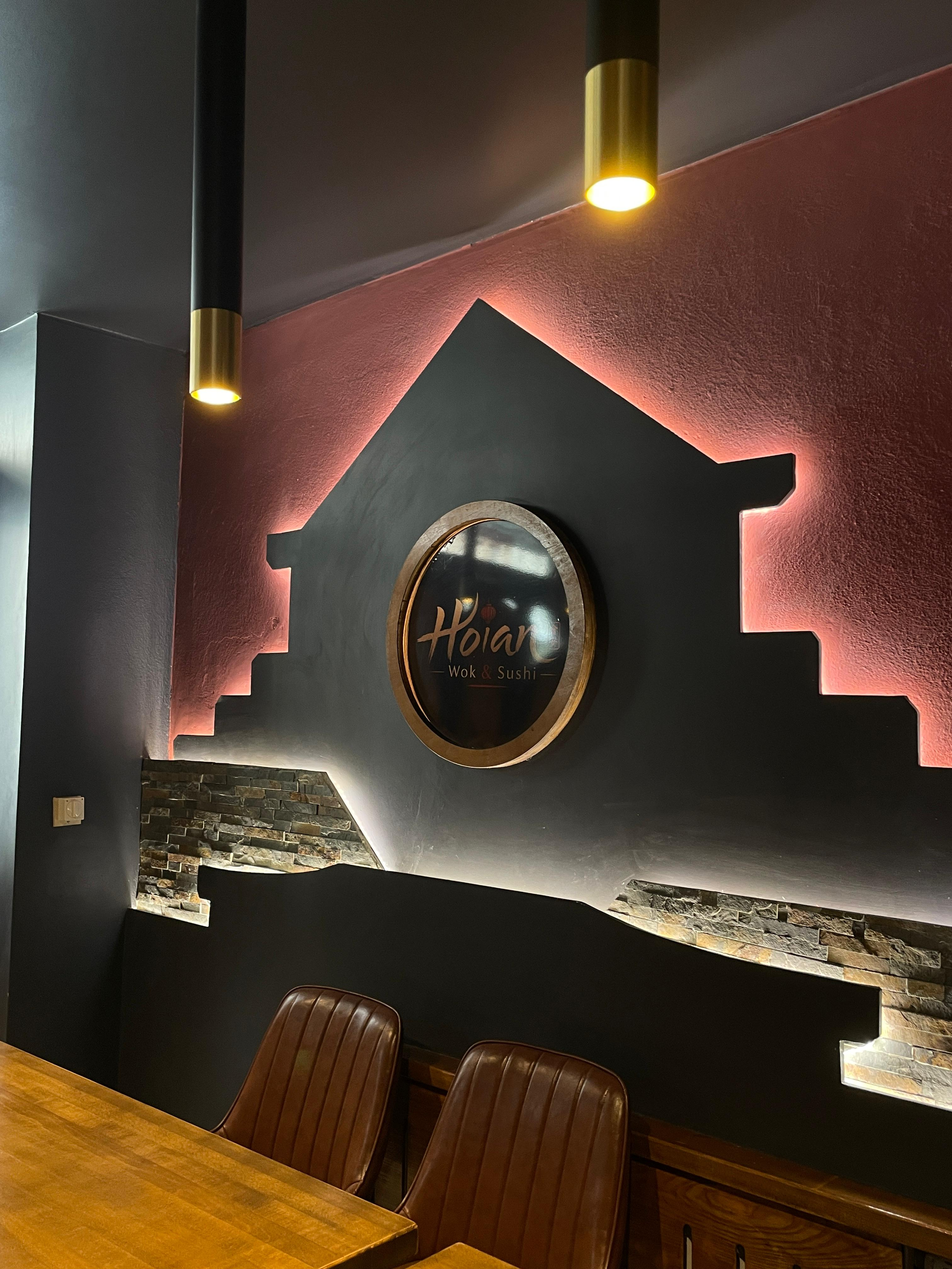
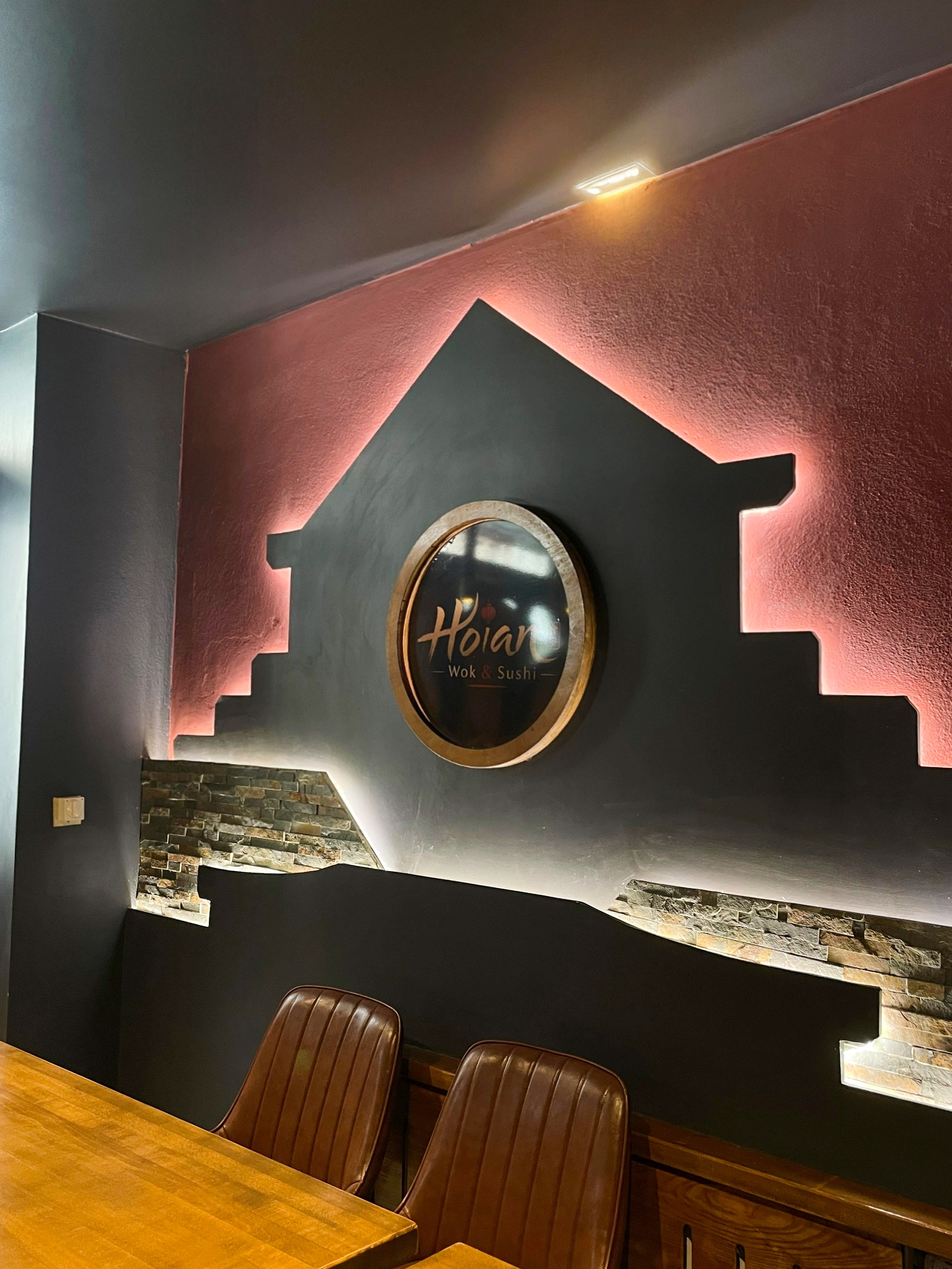
E-Mail wieder auf der Startseite
Der Kontaktblock nennt neben den beiden Nummern wieder die Adresse,
jetzt info@hoian-woksushi.de. Sie kommt wie überall aus site.ts, damit
Startseite, Impressum und Datenschutz nicht auseinanderlaufen.

Enthält außerdem ein ausgetauschtes restaurant-2.jpeg aus dem
Arbeitsverzeichnis.

Claude-Session: https://claude.ai/code/session_01KdHrtJhJYvegQ4pz3nU4J3

diff --git a/docs/index.html b/docs/index.html
@@ -28,12 +28,12 @@ Hoi An ist eine Hafenstadt in Zentralvietnam: Laternen über der Altstadt, offen
             Küchen in den Gassen. Die Stadt lässt sich nicht mitbringen, ihre Küche schon — dieselben
             Gewürze, derselbe Reis, dieselben langen Abende, an denen das Essen in die Mitte des
             Tisches kommt und alle zugreifen. Genau das steht hier an der Bahnhofstraße.
-</p> </div> </div> <div class="mt-[clamp(2rem,5vw,3.5rem)] grid gap-[clamp(0.75rem,2vw,1.5rem)] sm:grid-cols-2"> <img src="/_astro/restaurant-1.CcNEbhpf_ZBA0yl.webp" srcset="/_astro/restaurant-1.CcNEbhpf_1eaLes.webp 480w, /_astro/restaurant-1.CcNEbhpf_2aeLVC.webp 760w, /_astro/restaurant-1.CcNEbhpf_ZBA0yl.webp 1200w" alt="Gastraum mit geschwungener Holzskulptur über der Theke" sizes="(min-width: 40rem) 50vw, 100vw" loading="lazy" decoding="async" fetchpriority="auto" width="1200" height="1600" class="aspect-4/5 w-full object-cover"> <img src="/_astro/restaurant-2.C5XvszuQ_1aM2N1.webp" srcset="/_astro/restaurant-2.C5XvszuQ_1rHo13.webp 480w, /_astro/restaurant-2.C5XvszuQ_2nLoId.webp 760w, /_astro/restaurant-2.C5XvszuQ_1aM2N1.webp 1200w" alt="Wandbild mit dem Schriftzug des Restaurants über den Sitzplätzen" sizes="(min-width: 40rem) 50vw, 100vw" loading="lazy" decoding="async" fetchpriority="auto" width="1200" height="1600" class="aspect-4/5 w-full object-cover"> </div> </div> </section>  <section id="kontakt" class="scroll-mt-17 bg-ink-900 py-[clamp(2rem,4.5vw,4rem)] text-cream"> <div class="mx-auto w-full max-w-shell px-gutter"> <h2 class="font-display text-heading leading-none tracking-[-0.015em] text-balance">
+</p> </div> </div> <div class="mt-[clamp(2rem,5vw,3.5rem)] grid gap-[clamp(0.75rem,2vw,1.5rem)] sm:grid-cols-2"> <img src="/_astro/restaurant-1.CcNEbhpf_ZBA0yl.webp" srcset="/_astro/restaurant-1.CcNEbhpf_1eaLes.webp 480w, /_astro/restaurant-1.CcNEbhpf_2aeLVC.webp 760w, /_astro/restaurant-1.CcNEbhpf_ZBA0yl.webp 1200w" alt="Gastraum mit geschwungener Holzskulptur über der Theke" sizes="(min-width: 40rem) 50vw, 100vw" loading="lazy" decoding="async" fetchpriority="auto" width="1200" height="1600" class="aspect-4/5 w-full object-cover"> <img src="/_astro/restaurant-2.Dw-jOlPS_wtOzW.webp" srcset="/_astro/restaurant-2.Dw-jOlPS_Z1lEAkQ.webp 480w, /_astro/restaurant-2.Dw-jOlPS_ZpAzCG.webp 760w, /_astro/restaurant-2.Dw-jOlPS_wtOzW.webp 1200w" alt="Wandbild mit dem Schriftzug des Restaurants über den Sitzplätzen" sizes="(min-width: 40rem) 50vw, 100vw" loading="lazy" decoding="async" fetchpriority="auto" width="1200" height="1600" class="aspect-4/5 w-full object-cover"> </div> </div> </section>  <section id="kontakt" class="scroll-mt-17 bg-ink-900 py-[clamp(2rem,4.5vw,4rem)] text-cream"> <div class="mx-auto w-full max-w-shell px-gutter"> <h2 class="font-display text-heading leading-none tracking-[-0.015em] text-balance">
 Kontakt
 </h2> <div class="mt-8 grid gap-[clamp(1.5rem,4vw,3rem)] md:grid-cols-2"> <div> <h3 class="font-display text-title leading-none text-balance">Öffnungszeiten</h3> <dl class="grid gap-0.5 mt-4"> <div class="flex justify-between gap-6 border-t py-2.5 border-cream/15"> <dt class="text-cream-dim">Montag – Samstag</dt> <dd class="m-0 text-right tabular-nums">10:00 – 20:00</dd> </div><div class="flex justify-between gap-6 border-t py-2.5 border-cream/15"> <dt class="text-cream-dim">Sonntag</dt> <dd class="m-0 text-right tabular-nums">Ruhetag</dd> </div> </dl> <p class="mt-6 text-label text-cream-dim">
 An Feiertagen können die Zeiten abweichen. Rufen Sie im Zweifel kurz an.
-</p> <h3 class="mt-10 font-display text-title leading-none text-balance">Telefon</h3> <p class="mt-4"> <a class="underline decoration-cream/30 underline-offset-4 hover:decoration-lantern-soft" href="tel:+4935854525047">03585 4525047</a> /
-<a class="underline decoration-cream/30 underline-offset-4 hover:decoration-lantern-soft" href="tel:+4917631510183">0176 31510183</a> </p> <h3 class="mt-10 font-display text-title leading-none text-balance">Reservierung</h3> <p class="mt-4 max-w-[46ch]">
+</p> <h3 class="mt-10 font-display text-title leading-none text-balance">Telefon &amp; E-Mail</h3> <p class="mt-4"> <a class="underline decoration-cream/30 underline-offset-4 hover:decoration-lantern-soft" href="tel:+4935854525047">03585 4525047</a> /
+<a class="underline decoration-cream/30 underline-offset-4 hover:decoration-lantern-soft" href="tel:+4917631510183">0176 31510183</a><br> <a class="underline decoration-cream/30 underline-offset-4 hover:decoration-lantern-soft" href="mailto:info@hoian-woksushi.de">info@hoian-woksushi.de</a> </p> <h3 class="mt-10 font-display text-title leading-none text-balance">Reservierung</h3> <p class="mt-4 max-w-[46ch]">
 Reservieren können Sie zurzeit nur telefonisch, unter beiden Nummern.
 </p> <p class="mt-6"> <a href="tel:+4935854525047" class="inline-flex items-center justify-center gap-2 rounded-full border px-6 py-4 text-label font-medium tracking-[0.08em] uppercase no-underline transition duration-200 hover:-translate-y-0.5 motion-reduce:transition-none motion-reduce:hover:translate-y-0 border-transparent bg-lacquer text-white hover:bg-lacquer-deep ">Anrufen</a> </p> </div> <div> <h3 class="font-display text-title leading-none text-balance">Adresse</h3> <p class="mt-4 text-lead leading-[1.5] text-pretty"> Bahnhofstraße 9<br> 02708 Löbau </p> <iframe src="https://www.google.com/maps?q=Bahnhofstra%C3%9Fe%209%2C%2002708%20L%C3%B6bau&z=16&hl=de&output=embed" title="Karte: Bahnhofstraße 9, 02708 Löbau" loading="lazy" referrerpolicy="no-referrer-when-downgrade" class="mt-6 h-[clamp(14rem,28vw,20rem)] w-full border border-cream/15"></iframe>  </div> </div> </div> </section>  </main> <!-- Adresse, Telefon und Öffnungszeiten standen hier ein zweites Mal. Sie
      stehen im Kontaktabschnitt der Startseite; übrig bleibt das Pflichtteil. --><footer class="border-t border-cream/15 bg-ink-900 py-8 text-label text-cream-dim"> <div class="mx-auto flex w-full max-w-shell flex-wrap justify-between gap-x-5 gap-y-3 px-gutter"> <span>&copy; 2026 Hoi An Wok &amp; Sushi</span> <span> <a class="border-b border-cream/15 no-underline transition-colors hover:border-lantern hover:text-cream" href="/impressum/">Impressum</a> &nbsp;·&nbsp;
